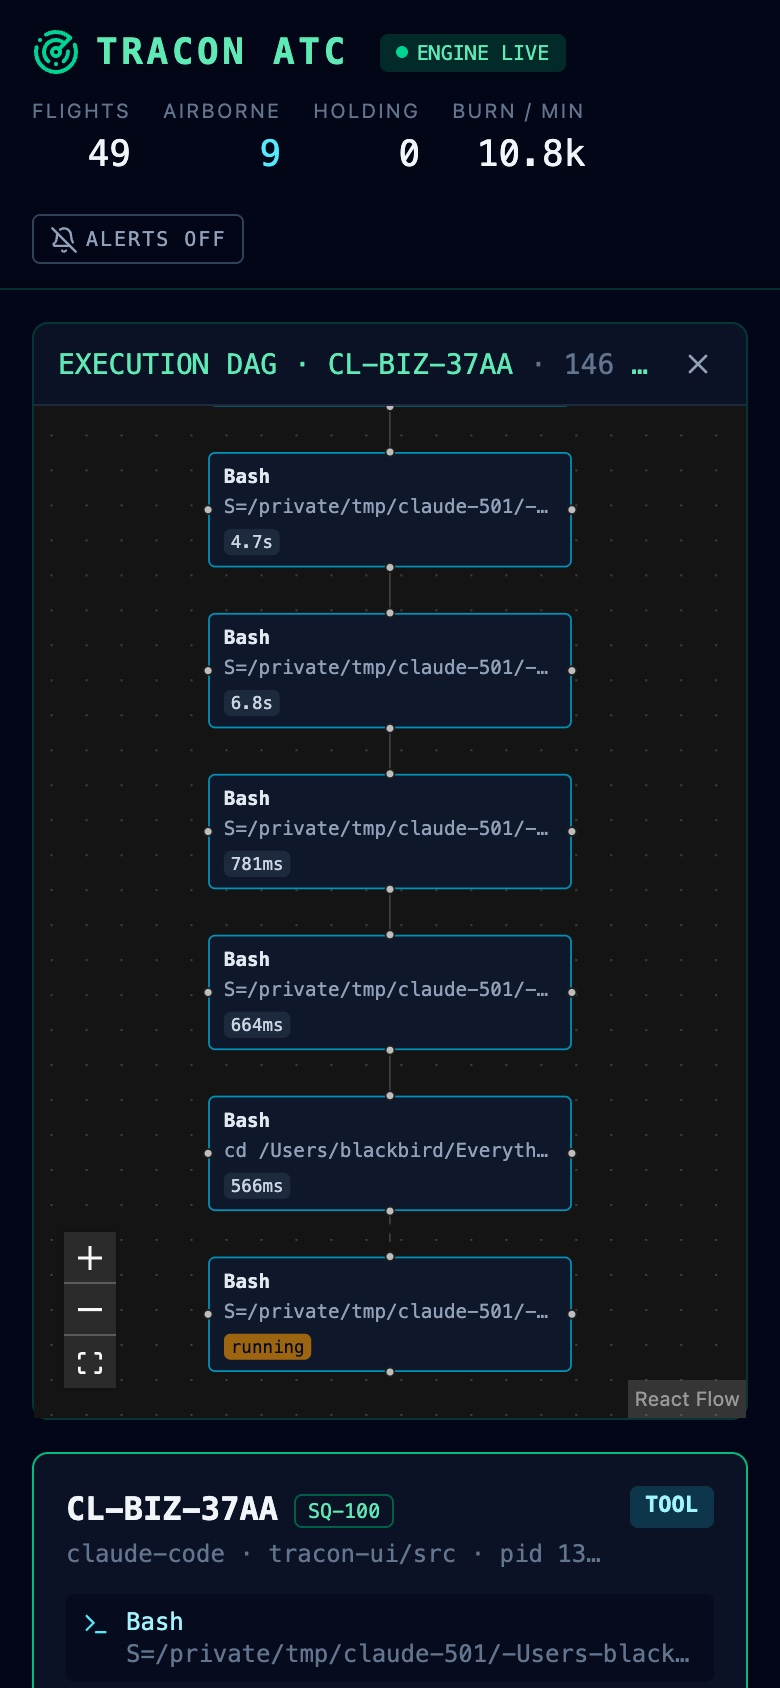
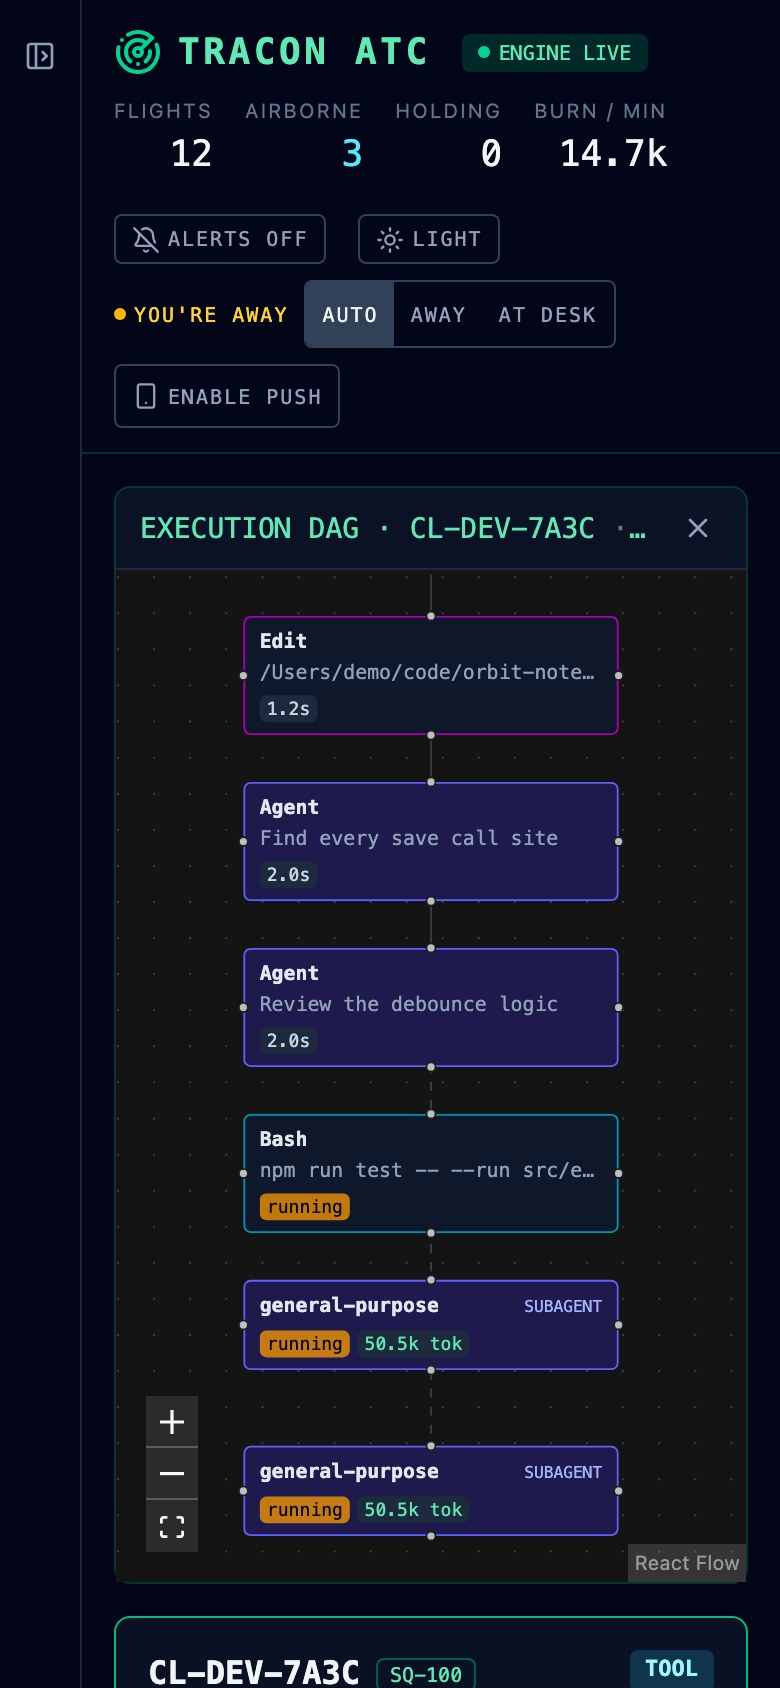
Re-shoot slide screenshots on a made-up home
All 13 images in slides/screenshots are now taken from the current
Flight Deck reading invented sessions (made-up profiles, projects and
paths under /Users/demo) instead of real sessions on the dev machine.
Same filenames and sizes, so slides/index.html needs no layout change;
its notes now say the data is a demo. judge.md marks the re-shoot done.

diff --git a/slides/index.html b/slides/index.html
@@ -74,17 +74,17 @@ code,.mono{font-family:var(--mono);font-size:.9em}
 <body>
 <div id="progress"></div>
 <div id="viewport"><div id="stage">
-<section class="slide title" aria-label="Title"><svg width="110" height="110" viewBox="0 0 24 24" fill="none" stroke="#34d399" stroke-width="1.6" stroke-linecap="round" style="margin-bottom:30px" aria-hidden="true"><circle cx="12" cy="12" r="10"/><circle cx="12" cy="12" r="6"/><circle cx="12" cy="12" r="2"/><path d="M12 12 19 5"/></svg><h1>TRACON <span class="t">ATC</span></h1><p class="tag">Air traffic control for your local AI coding agents.</p><p class="meta">main @ 75391f0 · screenshots of the real Flight Deck reading this Mac's sessions, 16 Oct 2026 · ← → or Space to move</p></section>
+<section class="slide title" aria-label="Title"><svg width="110" height="110" viewBox="0 0 24 24" fill="none" stroke="#34d399" stroke-width="1.6" stroke-linecap="round" style="margin-bottom:30px" aria-hidden="true"><circle cx="12" cy="12" r="10"/><circle cx="12" cy="12" r="6"/><circle cx="12" cy="12" r="2"/><path d="M12 12 19 5"/></svg><h1>TRACON <span class="t">ATC</span></h1><p class="tag">Air traffic control for your local AI coding agents.</p><p class="meta">main @ 585c519 · screenshots of the real Flight Deck reading invented demo sessions, 9 Nov 2026 · ← → or Space to move</p></section>
 <section class="slide plain" aria-label="Many agents, many accounts, and no radar"><p class="eyebrow">The problem</p><h2>Many agents, many accounts, and no radar</h2><p style="font-size:22px;line-height:1.5;max-width:1200px;margin-bottom:30px">A working day now means several Claude Code profiles on different plans, Antigravity sessions with their own subagents, and a terminal tab for each. Nothing shows them all in one place.</p><div class="grid3"><div class="card"><h3>Silent waits</h3><p>An agent stops on a question or a permission prompt and sits there for an hour because its tab is hidden.</p></div><div class="card"><h3>Invisible burn</h3><p>Tokens burn across five accounts at once, and the first sign of trouble is a rate limit.</p></div><div class="card"><h3>Lost structure</h3><p>A long session with subagents is a wall of transcript; what ran when, and how long it took, is hard to see.</p></div></div></section>
 <section class="slide plain" aria-label="The Avalokita engine: a read-only observer"><p class="eyebrow">How it works</p><h2>The Avalokita engine: a read-only observer</h2><table class="tbl"><tr><td>1 · Watch</td><td>Tails every Claude Code profile's transcripts (<code>~/.claude*/projects/**/*.jsonl</code>), live-session pid files and Antigravity brain transcripts, through FSEvents plus a 2-second poll</td></tr><tr><td>2 · Normalize</td><td>Turns Claude Code and Antigravity events into one <code>FlightPacket</code> per session: state, tool in flight, subagents, tokens, burn rate</td></tr><tr><td>3 · Broadcast</td><td>Pushes the whole airspace over <code>ws://127.0.0.1:4040/ws</code> on every change; the same snapshot at <code>GET /api/flights</code></td></tr><tr><td>4 · Trace</td><td>Keeps a bounded execution DAG per flight (last 40 turns, up to 100 tool calls each) at <code>GET /api/trace?flight=&lt;callsign&gt;</code></td></tr><tr><td>Read-only</td><td>Never writes to <code>~/.claude*</code> or <code>~/.gemini</code>; <code>scripts/check.sh</code> fails the build if the engine source gains a write call</td></tr></table></section>
 <section class="slide plain" aria-label="Sessions are flights, you are the controller"><p class="eyebrow">The metaphor</p><h2>Sessions are flights, you are the controller</h2><table class="tbl"><tr><td>Flight · callsign</td><td>One agent session. <code>CL-BIZ-37AA</code> = Claude Code, profile <code>~/.claude-biz</code>, session id; <code>AGY-37AC</code> = Antigravity</td></tr><tr><td>Squawk</td><td>The plan behind the account: <code>SQ-20</code> Pro, <code>SQ-100</code> Team or Max, <code>SQ-AGY</code> (set with <code>TRACON_TIERS</code>)</td></tr><tr><td>State</td><td><code>PREFLIGHT</code> → <code>CRUISING</code> → <code>TOOL</code> (executing) → <code>HOLDING</code> (waiting on you) → <code>LANDED</code>, or <code>ABORTED</code></td></tr><tr><td>Escorts</td><td>Subagents spawned by a flight, shown as chips on its card and as nodes in its DAG</td></tr><tr><td>Burn rate</td><td>Tokens per minute, averaged over 5 minutes, per flight and for the whole fleet</td></tr></table></section>
-<section class="slide split" aria-label="Every session on one screen"><div class="txt"><p class="eyebrow">Flight Deck · localhost:4040</p><h2>Every session on one screen</h2><ul class="b"><li>One card per session active in the window, across all five Claude profiles and Antigravity.</li><li>The fleet bar on top counts flights, airborne and holding, plus the total burn per minute.</li><li>Updates live over the WebSocket; no refresh needed.</li></ul><span class="chip live">Built · Phase 2</span><p class="note">Real data: 49 sessions from this Mac in a 2-day window (TRACON_WINDOW_MIN=2880; the default is 30 minutes).</p></div><div class="media"><div class="frame desk"><div class="bar"><i></i><i></i><i></i><span>localhost:4040</span></div><img src="screenshots/fleet.jpg" alt="Flight Deck with 49 real flights"></div></div></section>
+<section class="slide split" aria-label="Every session on one screen"><div class="txt"><p class="eyebrow">Flight Deck · localhost:4040</p><h2>Every session on one screen</h2><ul class="b"><li>One card per session active in the window, across every Claude profile and Antigravity.</li><li>The fleet bar on top counts flights, airborne and holding, plus the total burn per minute.</li><li>Updates live over the WebSocket; no refresh needed.</li></ul><span class="chip live">Built · Phase 2</span><p class="note">Demo data: 12 invented sessions in a 2-day window (TRACON_WINDOW_MIN=2880; the default is 30 minutes).</p></div><div class="media"><div class="frame desk"><div class="bar"><i></i><i></i><i></i><span>localhost:4040</span></div><img src="screenshots/fleet.jpg" alt="Flight Deck with 12 demo flights"></div></div></section>
 <section class="slide split" aria-label="The whole airspace in four numbers"><div class="txt"><p class="eyebrow">Fleet bar</p><h2>The whole airspace in four numbers</h2><ul class="b"><li>FLIGHTS on the radar, how many are AIRBORNE, how many are HOLDING, and the fleet's BURN / MIN.</li><li>ENGINE LIVE shows the WebSocket is connected; it turns to ENGINE OFFLINE if the engine stops.</li><li>The ALERTS switch turns on the holding chime and notifications.</li></ul><span class="chip live">Built · Phase 2</span></div><div class="media"><div class="pstack" style="--ph:140px"><div class="panel"><img src="screenshots/hdr-left.jpg" alt="TRACON ATC logo and engine status"></div><div class="panel"><img src="screenshots/hdr-right.jpg" alt="Fleet counters and alerts switch"></div></div></div></section>
 <section class="slide split" aria-label="What each agent is doing right now"><div class="txt"><p class="eyebrow">Flight cards</p><h2>What each agent is doing right now</h2><ul class="b"><li>Callsign, squawk and state badge; runtime, working folder and pid.</li><li>The tool in flight with its argument (here a Bash command), and a chip per subagent with its own state.</li><li>Burn-rate bar, token totals in and out, and the time since the last event.</li></ul><span class="chip live">Built · Phase 2</span><p class="note">The quota gauge shows n/a: no quota data source exists yet.</p></div><div class="media"><div class="panel"><img src="screenshots/card-live.jpg" alt="Live Claude Code flight card"></div><div class="panel"><img src="screenshots/card-agy.jpg" alt="Antigravity flight card"></div></div></section>
-<section class="slide split" aria-label="A session&#x27;s history as a graph"><div class="txt"><p class="eyebrow">Execution DAG · VIEW DAG</p><h2>A session's history as a graph</h2><ul class="b"><li>Each turn is a column, chained left to right; its tool calls hang below in order.</li><li>Agent calls and the subagents they spawned are linked, with tokens per subagent.</li><li>Badges show latency (or running) and tokens per turn. Pan, zoom and the minimap reach older turns.</li></ul><span class="chip live">Built · Phase 2</span><p class="note">A real session: 10 turns, 34 nodes, 3 subagents.</p></div><div class="media"><div class="panel"><img src="screenshots/dag-cf5a-fit.jpg" alt="Execution DAG for a session with three subagents"></div></div></section>
+<section class="slide split" aria-label="A session&#x27;s history as a graph"><div class="txt"><p class="eyebrow">Execution DAG · VIEW DAG</p><h2>A session's history as a graph</h2><ul class="b"><li>Each turn is a column, chained left to right; its tool calls hang below in order.</li><li>Agent calls and the subagents they spawned are linked, with tokens per subagent.</li><li>Badges show latency (or running) and tokens per turn. Pan, zoom and the minimap reach older turns.</li></ul><span class="chip live">Built · Phase 2</span><p class="note">A demo session: 10 turns, 35 nodes, 3 subagents.</p></div><div class="media"><div class="panel"><img src="screenshots/dag-cf5a-fit.jpg" alt="Execution DAG for a session with three subagents"></div></div></section>
 <section class="slide split" aria-label="Zoom in on any step"><div class="txt"><p class="eyebrow">DAG detail</p><h2>Zoom in on any step</h2><ul class="b"><li>Hover a node for its full path or command; colour marks the kind of step (turn, read, edit, shell, subagent).</li><li>Long sessions stay readable: the DAG opens zoomed on the six most recent nodes.</li><li>It refreshes whenever the engine sends a new packet for that flight.</li></ul><span class="chip live">Built · Phase 2</span></div><div class="media"><div class="pstack" style="--ph:330px"><div class="panel"><img src="screenshots/dag-cf5a-sub.jpg" alt="Zoomed DAG with a subagent node"></div><div class="panel"><img src="screenshots/dag-landed.jpg" alt="DAG of a longer session"></div></div></div></section>
 <section class="slide split" aria-label="Know the moment an agent needs you"><div class="txt"><p class="eyebrow">Holding alerts</p><h2>Know the moment an agent needs you</h2><ul class="b"><li>A flight waiting on you (a question, a plan approval, or a tool call with no result for 60 s) turns amber and pulses.</li><li>With ALERTS on: a two-tone chime and a system notification, at most once per flight every 2 minutes.</li><li>The tab title shows the count, e.g. <code>(1) HOLDING · TRACON ATC</code>, even in a background tab.</li></ul><span class="chip notlive">Demo session</span><p class="note">CL-DEMO-BEEF is a scripted demo session. The notification it fired: "CL-DEMO-BEEF is holding | /work/demo · AskUserQuestion is waiting on you".</p></div><div class="media"><div class="frame desk"><div class="bar"><i></i><i></i><i></i><span>localhost:4040 · (1) HOLDING</span></div><img src="screenshots/holding.jpg" alt="Flight Deck with one holding flight"></div><div class="panel"><img src="screenshots/card-holding.jpg" alt="Holding flight card"></div></div></section>
-<section class="slide split" aria-label="The same radar without a browser"><div class="txt"><p class="eyebrow">Terminal · tracon status</p><h2>The same radar without a browser</h2><ul class="b"><li><code>tracon status</code> prints one line per flight: squawk, callsign, runtime, state, tool and tokens.</li><li>Holding flights are listed at the bottom with their folder.</li><li><code>tracon start</code> runs the engine and opens the Flight Deck; <code>--no-open</code> skips the browser.</li></ul><span class="chip live">Built · Phase 2</span><p class="note">Real output from this Mac.</p></div><div class="media"><div class="panel"><img src="screenshots/status.jpg" alt="tracon status output"></div></div></section>
+<section class="slide split" aria-label="The same radar without a browser"><div class="txt"><p class="eyebrow">Terminal · tracon status</p><h2>The same radar without a browser</h2><ul class="b"><li><code>tracon status</code> prints one line per flight: squawk, callsign, runtime, state, tool and tokens.</li><li>Holding flights are listed at the bottom with their folder.</li><li><code>tracon start</code> runs the engine and opens the Flight Deck; <code>--no-open</code> skips the browser.</li></ul><span class="chip live">Built · Phase 2</span><p class="note">Output for the same demo sessions.</p></div><div class="media"><div class="panel"><img src="screenshots/status.jpg" alt="tracon status output"></div></div></section>
 <section class="slide split" aria-label="Check the fleet from your phone"><div class="txt"><p class="eyebrow">Mobile</p><h2>Check the fleet from your phone</h2><ul class="b"><li>The deck collapses to one column; the fleet bar stays on top.</li><li>The DAG works with touch pan and zoom; the minimap hides on small screens.</li></ul><span class="chip live">Built · Phase 2</span><p class="note">Captured at 390 × 844. The engine binds to 127.0.0.1, so a phone needs a tunnel or a LAN bind to reach it.</p></div><div class="media"><div class="phone"><img src="screenshots/m-fleet.jpg" alt="Flight Deck on a phone"></div><div class="phone"><img src="screenshots/m-dag.jpg" alt="Execution DAG on a phone"></div></div></section>
 <section class="slide plain" aria-label="Small, local and tested"><p class="eyebrow">Under the hood</p><h2>Small, local and tested</h2><table class="tbl"><tr><td>Packages</td><td>npm workspaces: <code>avalokita-engine</code> (Node, TypeScript), <code>tracon-ui</code> (React, Vite, Tailwind, React Flow), <code>tracon-cli</code></td></tr><tr><td>Runtimes</td><td>Claude Code (every <code>~/.claude*</code> profile and <code>CLAUDE_CONFIG_DIR</code>) and Google Antigravity</td></tr><tr><td>Settings</td><td><code>TRACON_PORT</code> (4040), <code>TRACON_WINDOW_MIN</code> (30), <code>TRACON_TIERS</code> (plan per profile)</td></tr><tr><td>Checks</td><td><code>scripts/check.sh</code>: install, two typechecks, stray files, read-only guard, 16 tests, UI build</td></tr><tr><td>Tested on</td><td>One 30-day sweep: 287 flights, 16,248 DAG nodes, no broken edges; 377 of 379 subagents matched to the call that spawned them</td></tr></table></section>
 <section class="slide plain" aria-label="Built so far, and the roadmap"><p class="eyebrow">What's next</p><h2>Built so far, and the roadmap</h2><table class="tbl"><tr><td>Done</td><td>Phase 1 (engine, scanners, WebSocket server) and Phase 2 (Flight Deck, execution DAG, holding alerts)</td></tr><tr><td>Phase 3</td><td>Ops Lounge: a PixiJS pixel-art radar room, characters animated by the tool they run, subagents orbiting their parent</td></tr><tr><td>Phase 4</td><td>TCAS: warn when two agents edit the same file; rate-limit forecasts per plan</td></tr><tr><td>Known limits</td><td>Holding is a guess for long tool calls; alerts need the tab open; quota shows n/a; DAG keeps the last 40 turns; subagents match to their spawning call by time</td></tr></table></section>

diff --git a/judge.md b/judge.md
@@ -121,7 +121,7 @@ No new commits since f8c244d (the Host-header and bad-percent-encoding fixes), s
 
 1. **Fixed 2026-10-19: any program on the Mac could approve permission prompts.** The local secret (above) stops blind POSTs. Still open: GET `/api/flights` shows held prompts to any local program. The deck sends no `X-Frame-Options` or `frame-ancestors`, so a website could frame `127.0.0.1:4040` and trick a click on Allow. The secret sits in plain text in each profile's `settings.json`.
 2. **The download doesn't match the README.** `beta_0.1` and the brew formula don't include the partner app. README.md:186 says the app is not on Homebrew, which contradicts lines 29-33. The badge says Linux, but the beta is macOS only. Setup step 2 points at `products/Caffeinate-my-mac`, a folder only the owner has.
-3. **No LICENSE, and the public screenshots show a client's name** (`slides/screenshots/fleet.jpg`). The name TRACON hasn't been checked for trademarks. It is a common FAA acronym, so it would be hard to register, and TRACON Pharmaceuticals already uses it in another field.
+3. **Fixed: the missing LICENSE (2026-10-21) and the slide screenshots of real sessions (re-shot on a made-up home with invented project names, 2026-11-09).** The name TRACON hasn't been checked for trademarks. It is a common FAA acronym, so it would be hard to register, and TRACON Pharmaceuticals already uses it in another field.
 4. **Blind file-write approvals on the phone** (above). Show `content` for Write, a diff for Edit and the JSON for MCP tools.
 5. **Revoking a device is all or nothing**, and the WebSocket token travels in the query string. Fix: one token per device with `tracon devices list|revoke`. (Rotate stops all pushes, and push bodies are trimmed, since 2026-10-19.)
 6. **Nothing keeps the engine running, and nothing checks the code.** There is no launchd or brew service, no top-level error handler and no CI (`.github/workflows` doesn't exist). The owner's engine is up today only because it was started by hand.
@@ -136,7 +136,7 @@ No new commits since f8c244d (the Host-header and bad-percent-encoding fixes), s
 
 1. Done 2026-10-19 (see Fixed above): local secret, subscriptions cleared on `--rotate`, short push bodies, with tests. Next, small: add `frame-ancestors 'none'` to the local deck's pages.
 2. Agent, about 2 h: show Write and Edit content on permission cards. When the server returns 401, clear the stored token and show the pair form.
-3. Done 2026-10-21: Apache-2.0 LICENSE, GitHub description and topics. Still open, owner, 1 h: Re-shoot the slides on a made-up home, and fix the README contradictions (line 186, the Linux badge, the Caffeinate path).
+3. Done 2026-10-21: Apache-2.0 LICENSE, GitHub description and topics. Done 2026-11-09: the slides were re-shot on a made-up home. Still open, owner, 1 h: fix the README contradictions (line 186, the Linux badge, the Caffeinate path).
 4. Agent and owner, half a day: cut `beta_0.2` from HEAD, update the tap formula, and add a brew `service` block or a launchd plist with KeepAlive. Add a top-level error handler and a GitHub Actions workflow that runs `scripts/check.sh`.
 5. Owner, 1 h: finish the iPhone push test in TODO.md, and answer a question, a plan and a permission from the phone.
 6. Owner: post one launch (Show HN, r/ClaudeAI) about the multi-account angle, then decide from stars and issues whether to keep investing.
